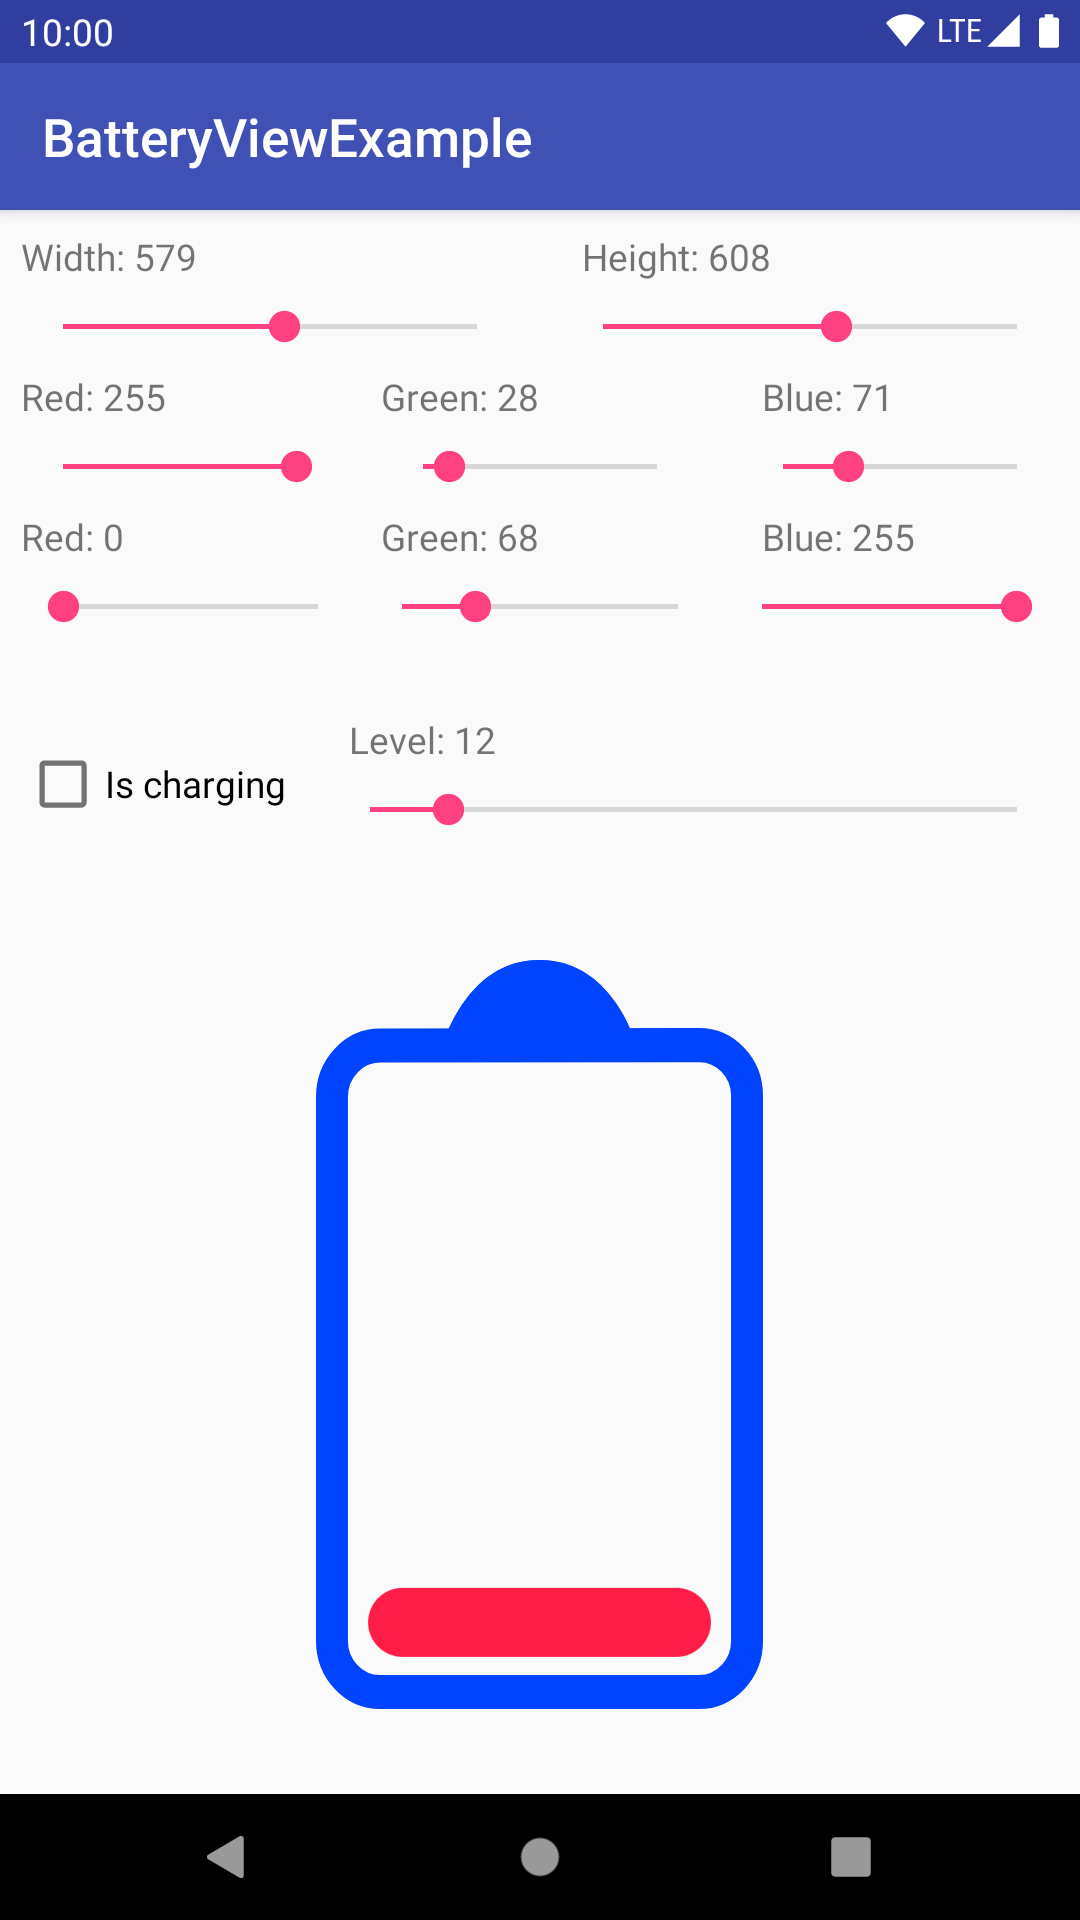
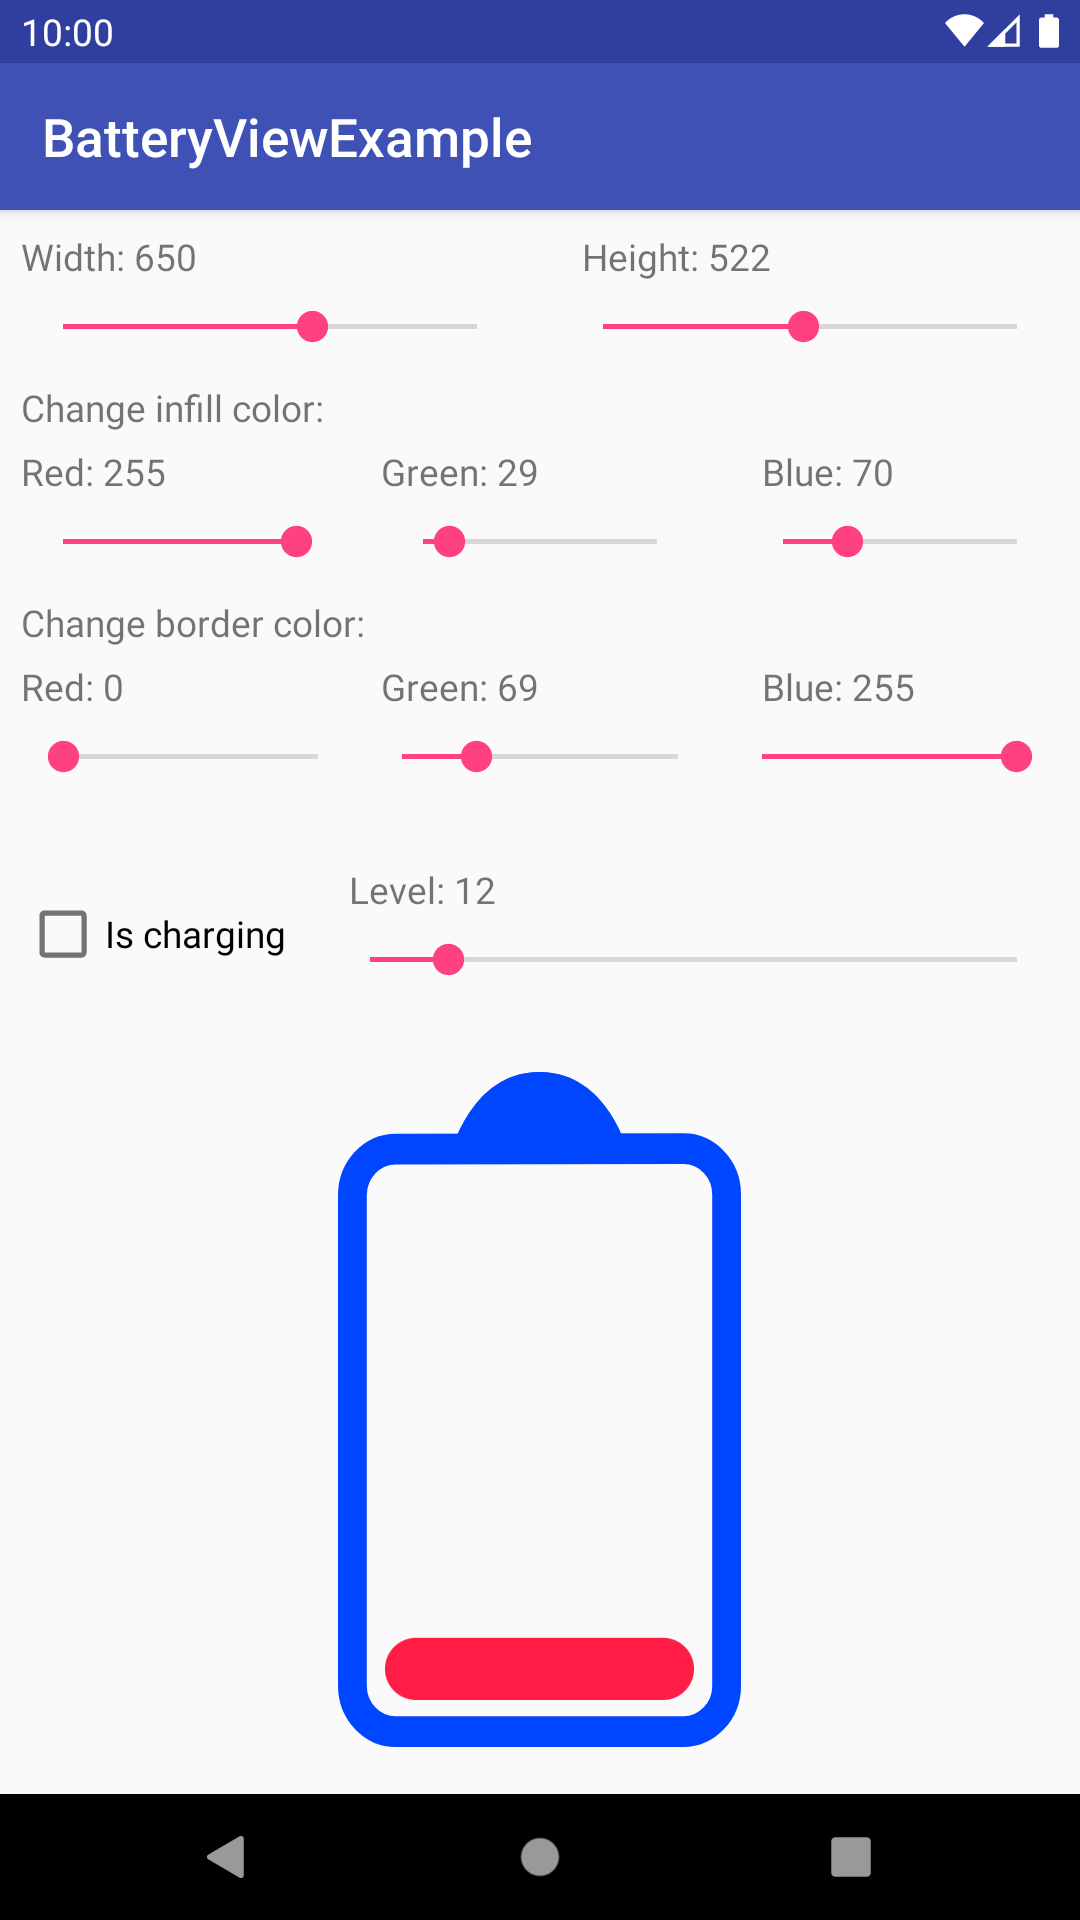
fixed (hopefully) all camelCases, added headers for the color sliders, updated media

diff --git a/app/src/main/java/iam/thevoid/batteryviewexample/MainActivity.kt b/app/src/main/java/iam/thevoid/batteryviewexample/MainActivity.kt
@@ -19,17 +19,17 @@ class MainActivity : AppCompatActivity() {
         const val INITIAL_RED = 16
         const val INITIAL_BLUE = 16
         const val INITIAL_GREEN = 16
-        const val INITIAL_RED2 = 0
-        const val INITIAL_BLUE2 = 0
-        const val INITIAL_GREEN2 = 0
+        const val BORDER_INITIAL_RED = 0
+        const val BORDER_INITIAL_BLUE = 0
+        const val BORDER_INITIAL_GREEN = 0
     }
 
     private var currentRed: Int = INITIAL_RED
     private var currentGreen: Int = INITIAL_GREEN
     private var currentBlue: Int = INITIAL_BLUE
-    private var currentRed2: Int = INITIAL_RED2
-    private var currentGreen2: Int = INITIAL_GREEN2
-    private var currentBlue2: Int = INITIAL_BLUE2
+    private var borderCurrentRed: Int = BORDER_INITIAL_RED
+    private var borderCurrentGreen: Int = BORDER_INITIAL_GREEN
+    private var borderCurrentBlue: Int = BORDER_INITIAL_BLUE
 
     private lateinit var batteryView: BatteryView
     private lateinit var widthSeek: SeekBar
@@ -42,12 +42,12 @@ class MainActivity : AppCompatActivity() {
     private lateinit var greenLabel: TextView
     private lateinit var blueSeek: SeekBar
     private lateinit var blueLabel: TextView
-    private lateinit var redSeek2: SeekBar
-    private lateinit var redLabel2: TextView
-    private lateinit var greenSeek2: SeekBar
-    private lateinit var greenLabel2: TextView
-    private lateinit var blueSeek2: SeekBar
-    private lateinit var blueLabel2: TextView
+    private lateinit var borderRedSeek: SeekBar
+    private lateinit var borderRedLabel: TextView
+    private lateinit var borderGreenSeek: SeekBar
+    private lateinit var borderGreenLabel: TextView
+    private lateinit var borderBlueSeek: SeekBar
+    private lateinit var borderBlueLabel: TextView
     private lateinit var chargeSeek: SeekBar
     private lateinit var chargeLabel: TextView
     private lateinit var chargedCb: CheckBox
@@ -66,12 +66,12 @@ class MainActivity : AppCompatActivity() {
         greenLabel = findViewById(R.id.green_label)
         blueSeek = findViewById(R.id.blue_seek)
         blueLabel = findViewById(R.id.blue_label)
-        redSeek2 = findViewById(R.id.red_seek2)
-        redLabel2 = findViewById(R.id.red_label2)
-        greenSeek2 = findViewById(R.id.green_seek2)
-        greenLabel2 = findViewById(R.id.green_label2)
-        blueSeek2 = findViewById(R.id.blue_seek2)
-        blueLabel2 = findViewById(R.id.blue_label2)
+        borderRedSeek = findViewById(R.id.border_red_seek)
+        borderRedLabel = findViewById(R.id.border_red_label)
+        borderGreenSeek = findViewById(R.id.border_green_seek)
+        borderGreenLabel = findViewById(R.id.border_green_label)
+        borderBlueSeek = findViewById(R.id.border_blue_seek)
+        borderBlueLabel = findViewById(R.id.border_blue_label)
         chargeSeek = findViewById(R.id.charge_seek)
         chargeLabel = findViewById(R.id.charge_label)
         chargedCb = findViewById(R.id.is_charging)
@@ -81,7 +81,7 @@ class MainActivity : AppCompatActivity() {
     @SuppressLint("SetTextI18n")
     private fun initViews() {
         batteryView.apply {
-            infillcolor = calculateColor()
+            infillColor = calculateColor()
             batteryLevel = INITIAL_CHARGE
             updateLayoutParams {
                 width = INITIAL_WIDTH
@@ -94,7 +94,7 @@ class MainActivity : AppCompatActivity() {
             configureColor(currentRed)
             seekListener {
                 currentRed = it
-                infillcolor = calculateColor()
+                infillColor = calculateColor()
                 redLabel.text = "Red: $currentRed"
             }
         }
@@ -104,7 +104,7 @@ class MainActivity : AppCompatActivity() {
             configureColor(currentGreen)
             seekListener {
                 currentGreen = it
-                infillcolor = calculateColor()
+                infillColor = calculateColor()
                 greenLabel.text = "Green: $currentGreen"
             }
         }
@@ -114,38 +114,38 @@ class MainActivity : AppCompatActivity() {
             configureColor(currentBlue)
             seekListener {
                 currentBlue = it
-                infillcolor = calculateColor()
+                infillColor = calculateColor()
                 blueLabel.text = "Blue: $currentBlue"
             }
         }
 
-        redLabel2.text = "Red: $currentRed2"
-        redSeek2.apply {
-            configureColor(currentRed2)
+        borderRedLabel.text = "Red: $borderCurrentRed"
+        borderRedSeek.apply {
+            configureColor(borderCurrentRed)
             seekListener {
-                currentRed2 = it
-                bordercolor = calculateColor2()
-                redLabel2.text = "Red: $currentRed2"
+                borderCurrentRed = it
+                borderColor = calculateBorderColor()
+                borderRedLabel.text = "Red: $borderCurrentRed"
             }
         }
 
-        greenLabel2.text = "Green: $currentGreen2"
-        greenSeek2.apply {
-            configureColor(currentGreen2)
+        borderGreenLabel.text = "Green: $borderCurrentGreen"
+        borderGreenSeek.apply {
+            configureColor(borderCurrentGreen)
             seekListener {
-                currentGreen2 = it
-                bordercolor = calculateColor2()
-                greenLabel2.text = "Green: $currentGreen2"
+                borderCurrentGreen = it
+                borderColor = calculateBorderColor()
+                borderGreenLabel.text = "Green: $borderCurrentGreen"
             }
         }
 
-        blueLabel2.text = "Blue: $currentBlue2"
-        blueSeek2.apply {
-            configureColor(currentBlue2)
+        borderBlueLabel.text = "Blue: $borderCurrentBlue"
+        borderBlueSeek.apply {
+            configureColor(borderCurrentBlue)
             seekListener {
-                currentBlue2 = it
-                bordercolor = calculateColor2()
-                blueLabel2.text = "Blue: $currentBlue2"
+                borderCurrentBlue = it
+                borderColor = calculateBorderColor()
+                borderBlueLabel.text = "Blue: $borderCurrentBlue"
             }
         }
 
@@ -194,8 +194,8 @@ class MainActivity : AppCompatActivity() {
         return (currentRed * 0x10000 + currentGreen * 0x100 + currentBlue + 0xFF000000).toInt()
     }
 
-    private fun calculateColor2() : Int {
-        return (currentRed2 * 0x10000 + currentGreen2 * 0x100 + currentBlue2 + 0xFF000000).toInt()
+    private fun calculateBorderColor() : Int {
+        return (borderCurrentRed * 0x10000 + borderCurrentGreen * 0x100 + borderCurrentBlue + 0xFF000000).toInt()
     }
 
     private fun SeekBar.configureColor(current: Int) =

diff --git a/batteryview/src/main/java/iam/thevoid/batteryview/BatteryView.kt b/batteryview/src/main/java/iam/thevoid/batteryview/BatteryView.kt
@@ -51,7 +51,7 @@ class BatteryView @JvmOverloads constructor(
         set(value) {
             field = value
             setImageResource(if (isCharging) R.drawable.ic_charging else R.drawable.ic_battery)
-            if (isCharging) setColorFilter(infillcolor) else setColorFilter(bordercolor)
+            if (isCharging) setColorFilter(infillColor) else setColorFilter(borderColor)
             invalidate()
         }
 
@@ -59,7 +59,7 @@ class BatteryView @JvmOverloads constructor(
      * View infill color.
      */
     @ColorInt
-    var infillcolor = Color.WHITE
+    var infillColor = Color.WHITE
         set(newColor) {
             if (isCharging) setColorFilter(newColor)
             field = newColor
@@ -74,7 +74,7 @@ class BatteryView @JvmOverloads constructor(
      * View border color
      */
     @ColorInt
-    var bordercolor = Color.BLACK
+    var borderColor = Color.BLACK
         set(newBorderColor) {
             field = newBorderColor
             if (!isCharging) setColorFilter(newBorderColor)
@@ -106,8 +106,8 @@ class BatteryView @JvmOverloads constructor(
         )
         try {
             isCharging = a.getBoolean(R.styleable.BatteryView_bv_charging, false)
-            bordercolor = a.getColor(R.styleable.BatteryView_bv_bordercolor, Color.BLACK)
-            infillcolor = a.getColor(R.styleable.BatteryView_bv_infillcolor, Color.WHITE)
+            borderColor = a.getColor(R.styleable.BatteryView_bv_borderColor, Color.BLACK)
+            infillColor = a.getColor(R.styleable.BatteryView_bv_infillColor, Color.WHITE)
             batteryLevel = a.getInteger(R.styleable.BatteryView_bv_percent, 0)
             internalSpacing =
                 a.getFloat(R.styleable.BatteryView_bv_internalSpacing, DEFAULT_INTERNAL_SPACING)
@@ -130,11 +130,11 @@ class BatteryView @JvmOverloads constructor(
     }
 
     fun setInfillColorRes(@ColorRes colorRes: Int) {
-        infillcolor = ContextCompat.getColor(context, colorRes)
+        infillColor = ContextCompat.getColor(context, colorRes)
     }
 
     fun setBorderColorRes(@ColorRes colorRes: Int) {
-        bordercolor = ContextCompat.getColor(context, colorRes)
+        borderColor = ContextCompat.getColor(context, colorRes)
     }
 
 

diff --git a/README.MD b/README.MD
@@ -7,14 +7,14 @@ Simple View to show battery level. View scales perfectly inside bounds whatever 
 
 Charged             |  Charging          |  Discharged a bit       |  Low with colored border
 :-------------------------:|:-------------------------:|:-------------------------:|:-------------------------:
-![charged](media/charged.png "Charged")   |  ![charging](media/charging.png "Charging") |  ![discharged](media/discharged.png "Discharged a bit") | ![bordercolor](media/bordercolor.png "Low with colored border")
+![charged](media/charged.png "Charged")   |  ![charging](media/charging.png "Charging") |  ![discharged](media/discharged.png "Discharged a bit") | ![borderColor](media/borderColor.png "Low with colored border")
 ##
 
 Also you can set attributes in xml:
 attribute             |  meaning
 :-------------------------:|:-------------------------:
-```app:bv_bordercolor``` | Has 'color' type, and sets the color of the border of the view. Also can be set in code with view `bordercolor` property.
-```app:bv_infillcolor``` | Has 'color' type, and sets the color of the infill of the view. Also can be set in code with view `infillcolor` property.
+```app:bv_borderColor``` | Has 'color' type, and sets the color of the border of the battery. Also can be set in code with view `borderColor` property.
+```app:bv_infillColor``` | Has 'color' type, and sets the color of the infill of the battery. Also can be set in code with view `infillColor` property.
 ```app:bv_percent``` | Has 'integer' type, sets the percent of battery. Also can be set in code with view `batteryLevel` property.
 ```app:bv_charging``` | Has 'boolean' type, sets the charging state. If battery is 'charging' level rect is not shown. Also can be set in code with view `isCharging` property.
 ```app:bv_internalSpacing``` | Has 'float' type, sets spacing between border and level drawable. Value is relative to border width and actually this is percent of border width. Also can be set in code with view `internalSpacing` property.
